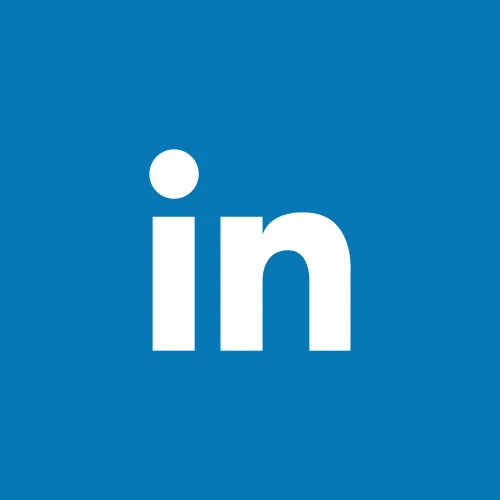
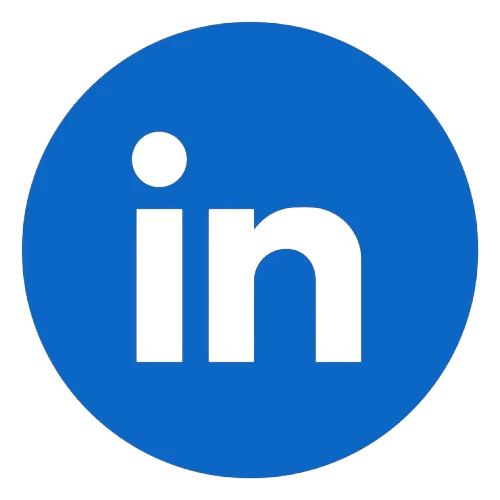
Fixing Little things

diff --git a/frontend/components/ConnectSection.tsx b/frontend/components/ConnectSection.tsx
@@ -14,7 +14,7 @@ const socialLinks = [
   {
     name: "LinkedIn",
     url: "https://www.linkedin.com/in/muhammad-ayan-696272316/",
-    icon: "/Linkedin.webp",
+    icon: "/linkedIn.webp",
   },
   {
     name: "Discord",
@@ -23,6 +23,7 @@ const socialLinks = [
   },
 ];
 
+// AI SECTIONNNN
 export default function ConnectSection() {
   return (
     <section className="content-section connect-section">

diff --git a/frontend/app/page.tsx b/frontend/app/page.tsx
@@ -244,6 +244,7 @@ export default function Home() {
                 width={500}
                 height={500}
                 className="portrait"
+                priority
               />
             </div>
 
